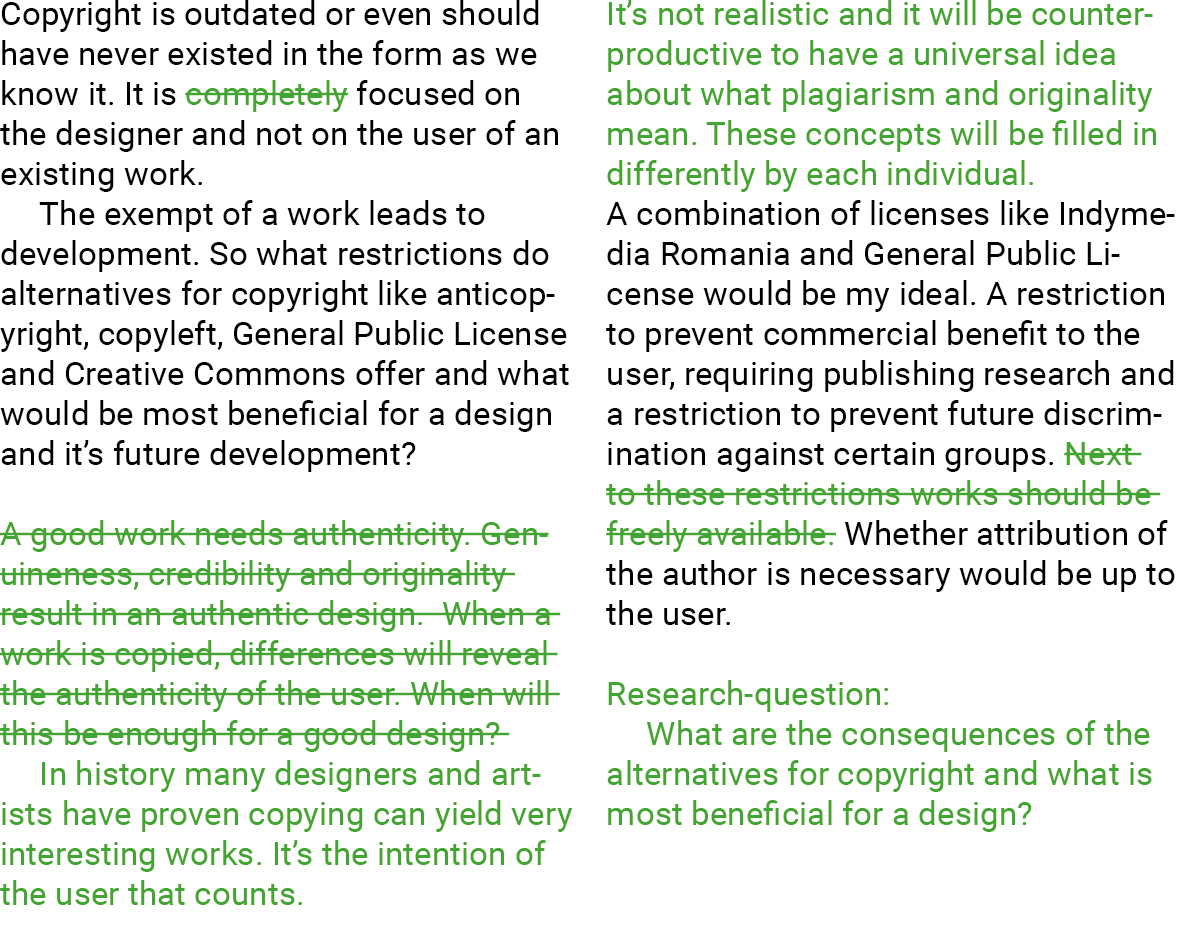
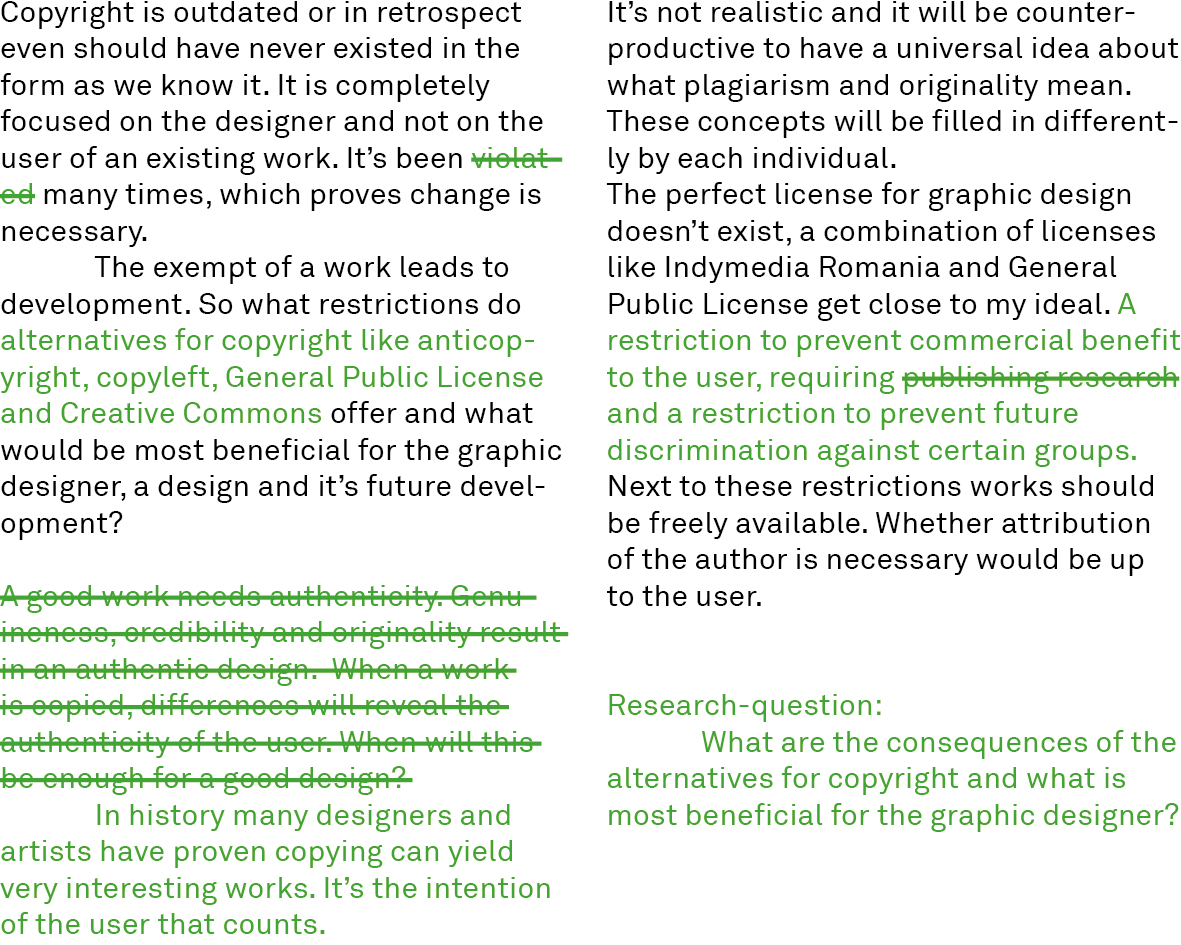
3

Changed region(s): [[0.0, 0.0, 0.4877, 1.0], [0.5182, 0.0, 1.0, 0.6751], [0.5182, 0.7058, 1.0, 0.8899]]

diff --git a/index.html b/index.html
@@ -42,6 +42,18 @@ function MM_swapImage() { //v3.0
 
 
 <style type="text/css">
+abstract {
+	color: #090;
+}
+abstract {
+	color: #090;
+}
+s {
+	color: #090;
+}
+g {
+	color: #090;
+}
 </style>
 
 <script type="text/javascript">
@@ -73,7 +85,26 @@ function MM_showHideLayers() { //v9.0
 
 
 
-<div id="omslag"><IMG src="omslag6.jpg" height="640" width="800";></div>
+<div id="omslag">
+
+  <p>Copyright is outdated or in retrospect even should have never existed in the form as we know it. It is completely focused on the designer and not on the user of an existing work. It’s been <s>violated many times,</s> which proves change is necessary. <br />
+&nbsp;&nbsp;&nbsp;&nbsp;&nbsp;&nbsp;The exempt of a work leads to development. So what restrictions do <g>alternatives for copyright like anticopyright, copyleft, General Public License and Creative Commons</g> offer and what would be most beneficial for the graphic designer, a design and it’s future development?</p>
+
+<p><s>A good work needs authenticity. Genuineness, credibility and originality result in an authentic design.  When a work is copied, differences will reveal the authenticity of the user. When will this be enough for a good design?</s>
+<g>In history many designers and artists have proven copying can yield very interesting works. It’s the intention of the user that counts.</g> </p>
+
+</div>
+
+
+<div id="omslag2">
+
+<p>It’s not realistic and it will be counter-productive to have a universal idea about what <s>plagiarism</s> and originality mean. These concepts will be filled in differently by each individual. <br />
+&nbsp;&nbsp;&nbsp;&nbsp;&nbsp;&nbsp;The perfect license for graphic design doesn’t exist, a combination of licenses like Indymedia Romania and General Public License get close to my ideal. <g>A restriction to prevent commercial benefit to the user, requiring <s>publishing research</s> and a restriction to prevent future discrimination against certain groups.</g> Next to these restrictions works should be freely available. Whether attribution of the author is necessary would be up to the user.</p>
+  <p>&nbsp;</p>
+
+<p><g>Research-question:
+What are the consequences of the alternatives for copyright and what is most beneficial for the graphic designer?</g></p></div>
+
 
 
 
@@ -429,12 +460,14 @@ Ik ben in de veronderstelling dat er authenticiteit te behalen valt, wellicht ze
 
     <h1><a name="alternatieven" id="alternatieven">
     </a>10. BESTAANDE ALTERNATIEVEN VOOR COPYRIGHT EN DE CONSEQUENTIES DAARVAN</h1>
-  <p>&nbsp;</p>
-<h2>“If creativity is the field, copyright is the fence”. <br />
-- John Oswald (Canada, 1953) (27) </h2>
+
 
 <p>Er zijn al meerdere alternatieven voor copyright voorbijgekomen. Het begon bij een vrij duidelijke anticopyright, dit was compleet gericht op het belang van creatieve vrijheid en daarmee de gebruikers van bestaand werk. Maar in de loop der tijd zijn de alternatieven zich toch steeds meer gaan richten op de auteur dan op de gebruiker, waar anticopyright zich duidelijk afzet tegen het intellectueel bezit, dwalen de navolgers daar steeds verder vanaf. Anticopyright lijkt te kort door de bocht. Het is gebouwd op vertrouwen en ethische verantwoordelijkheid, dit leidt te makkelijk tot misbruik. De zoektocht naar alternatieven voor anticopyright met meer restricties of copyright met juist minder is al een poos bezig.
 Het toepassen van de verschillende licenties is vrij simpel, copyright is er automatisch en heeft geen vermelding nodig. Voor de andere licenties is die vermelding wel nodig, het betreft doorgaans een simpele verwijzing geplaatst bij het betreffende werk. Hoe deze vermelding aangeduid dient te worden wordt gegeven door de verschillende licenties. </p>
+  
+<h2>“If creativity is the field, copyright is the fence”. <br />
+- John Oswald (Canada, 1953) (27) </h2>
+
 
 <h5><a name="copyright" id="copyright">
     </a>10.1 Copyright </h5>
@@ -758,6 +791,48 @@ Het is belangrijk om na te denken over hoe een ontwerp beschermd moet worden. He
      // setup and start event handling for track changes
      tracker.startTracking();
 </script>
+
+
+<script>
+     var tracker = new ice.InlineChangeEditor({
+       // element to track - ice will make it contenteditable
+       element: document.getElementById('better'),
+       // tell ice to setup/handle events on the `element`
+       handleEvents: true,
+       // set a user object to associate with each change
+       currentUser: { id: 1, name: 'Miss T' }
+     });
+     // setup and start event handling for track changes
+     tracker.startTracking();
+</script>
+
+<script>
+     var tracker = new ice.InlineChangeEditor({
+       // element to track - ice will make it contenteditable
+       element: document.getElementById('omslag'),
+       // tell ice to setup/handle events on the `element`
+       handleEvents: true,
+       // set a user object to associate with each change
+       currentUser: { id: 1, name: 'Miss T' }
+     });
+     // setup and start event handling for track changes
+     tracker.startTracking();
+</script>
+
+
+<script>
+     var tracker = new ice.InlineChangeEditor({
+       // element to track - ice will make it contenteditable
+       element: document.getElementById('omslag2'),
+       // tell ice to setup/handle events on the `element`
+       handleEvents: true,
+       // set a user object to associate with each change
+       currentUser: { id: 1, name: 'Miss T' }
+     });
+     // setup and start event handling for track changes
+     tracker.startTracking();
+</script>
+
 
 </body>
 </html>

diff --git a/demo.css b/demo.css
@@ -28,13 +28,25 @@ div.container {
 }
 
 #omslag {
-	width:650px;
-	position:relative;
-	margin:0 auto;
-	top:30px;
+	width:375px;
+	position:absolute;
+	top:50px;
 	height:200px;
+	font-size:21px;
 	z-index:4;
-	left:8%;
+	left:520px;
+	line-height:1.2;
+}
+
+#omslag2 {
+	width:375px;
+	position:absolute;
+	top:50px;
+	height:200px;
+	font-size:21px;
+	z-index:4;
+	left:920px;
+	line-height:1.2;
 }
 
 #common {
@@ -198,7 +210,7 @@ div#bronnen a:active { color: #000; }
 #uitleg {
 	height: 14px;
 	position:absolute;
-	top:540px;
+	top:555px;
     width:160px;
 	left:70px;
     z-index:1;
@@ -247,7 +259,7 @@ h2 {
 h3 {
 	font-size: 9px;
 	font-style:normal;
-	margin-left:250px;
+	margin-left:300px;
 }
 
 h4 {
